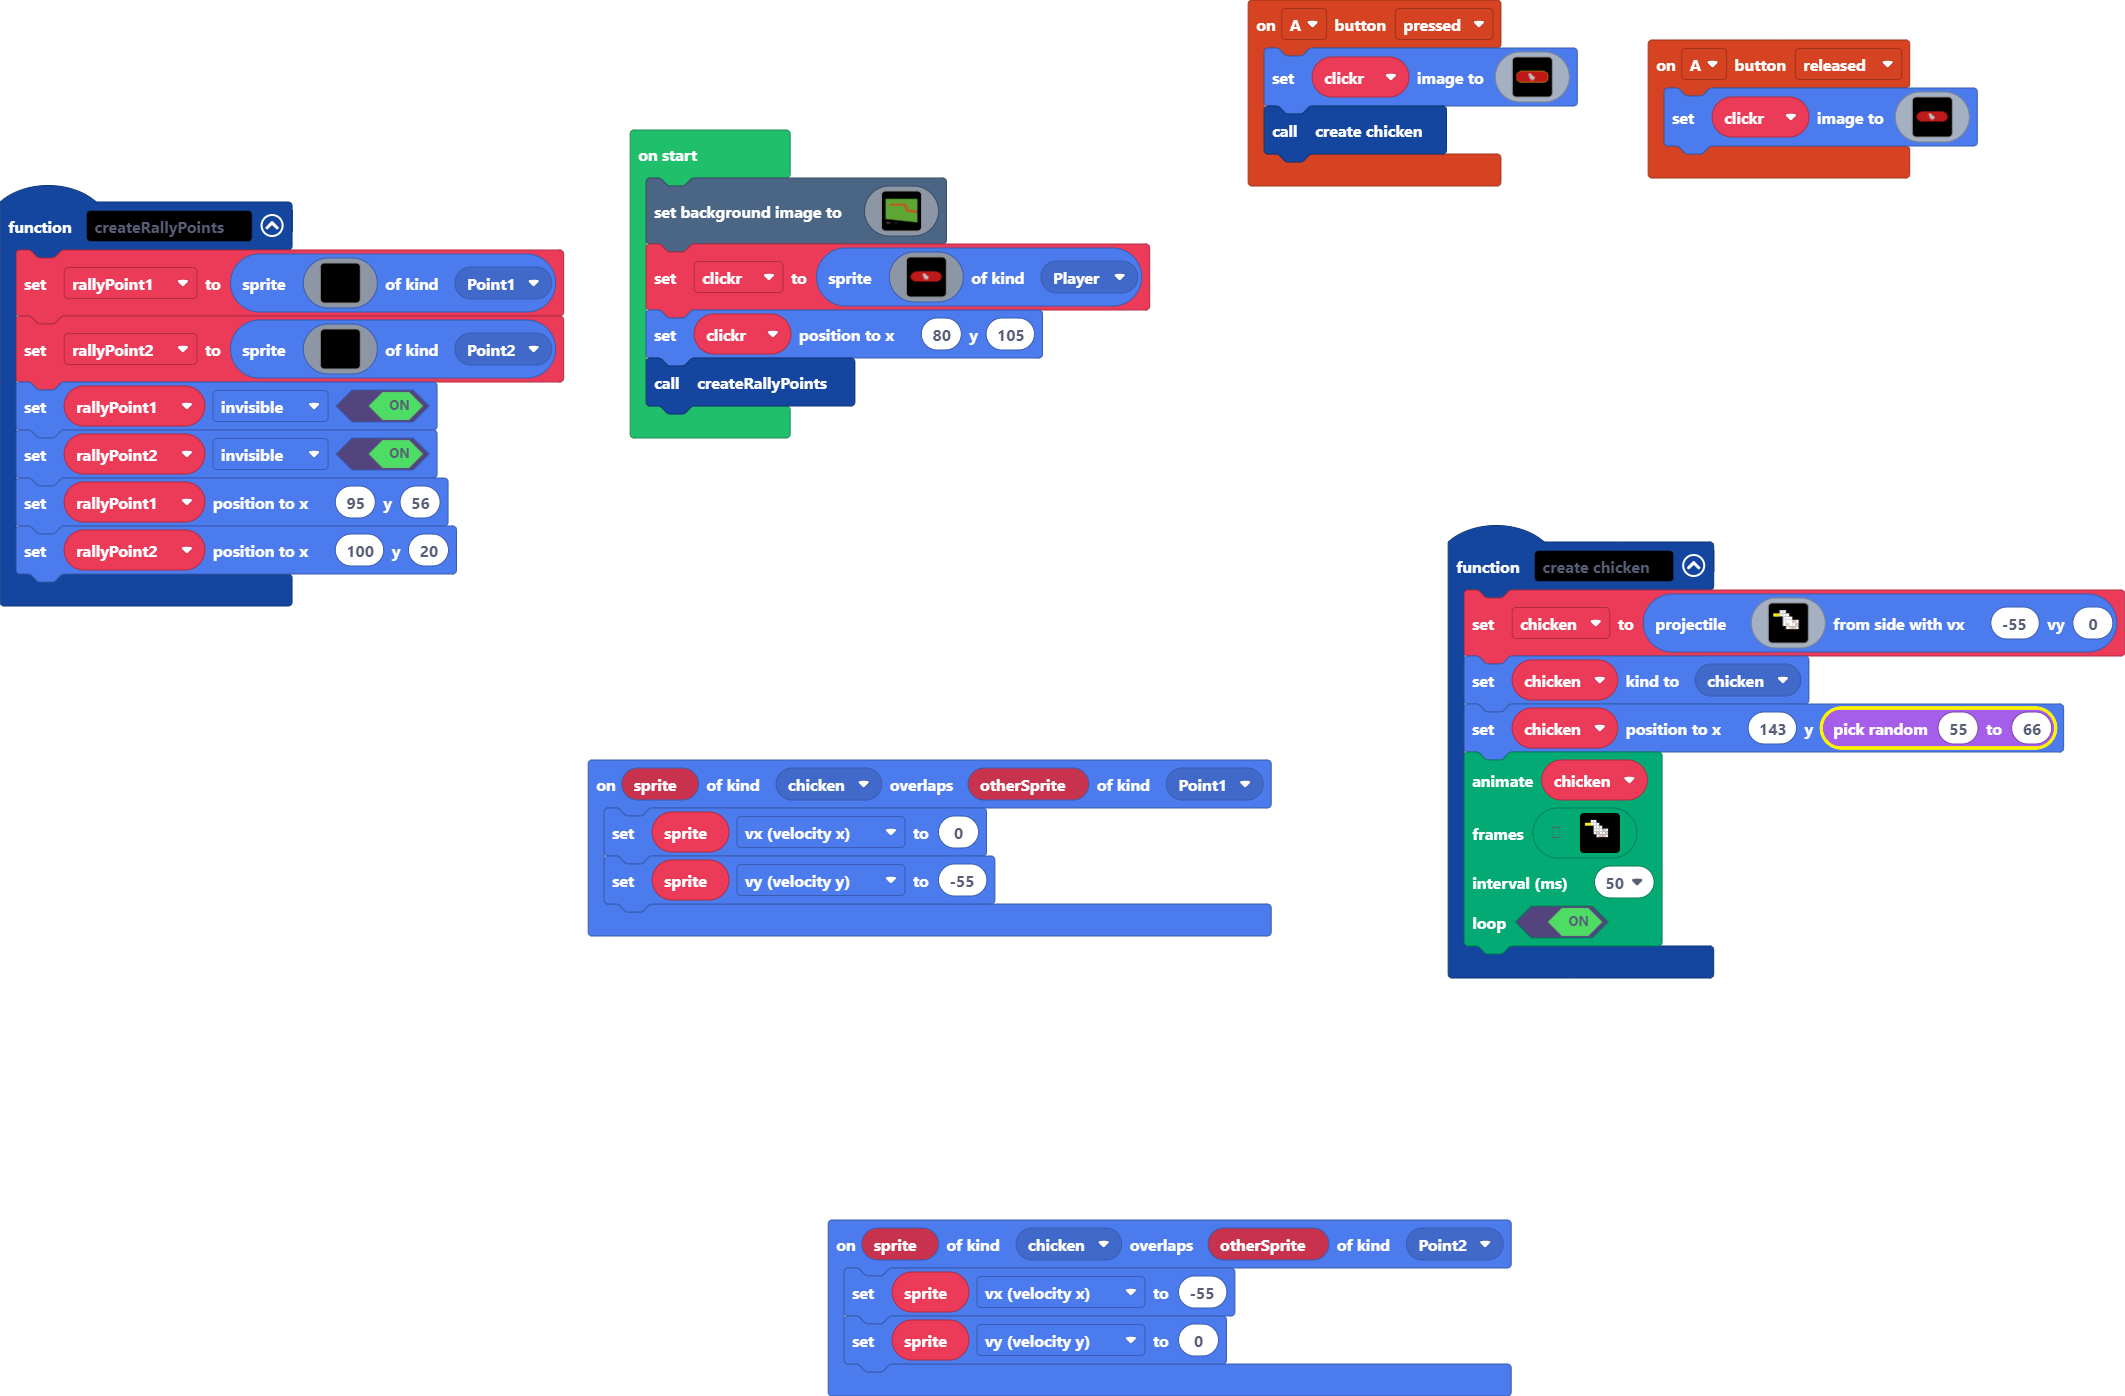
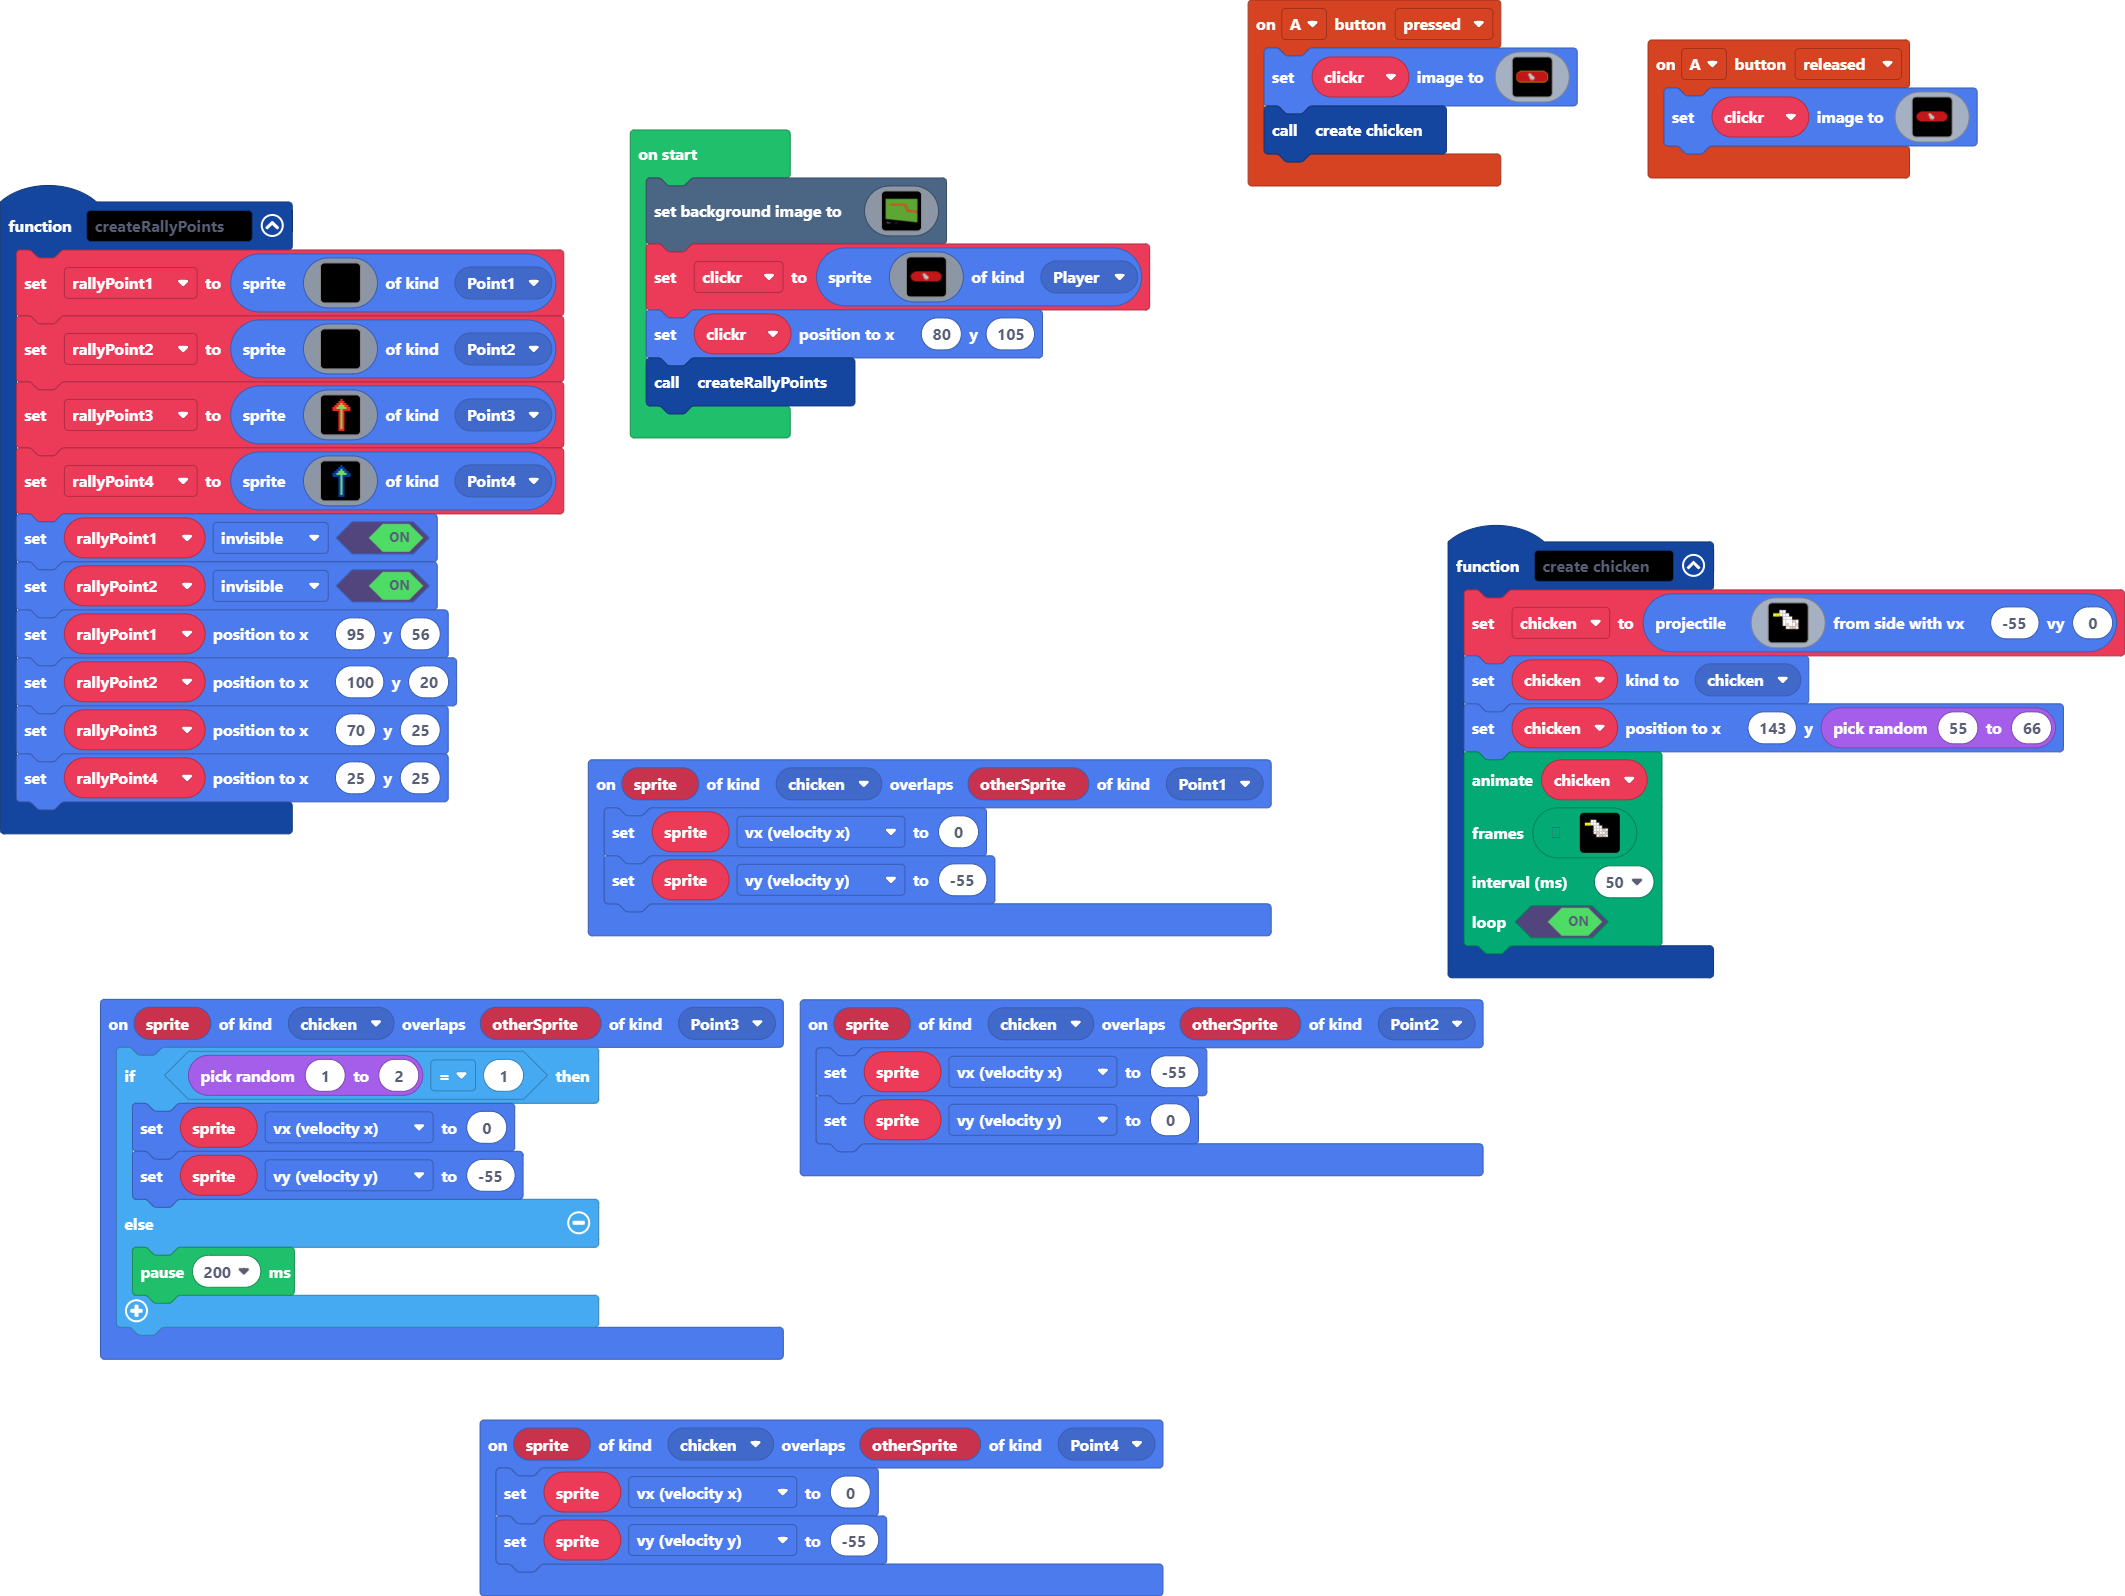
The chicken will either go up one way, or the other, to get to any of the houses (that are not made yet) .

diff --git a/main.ts b/main.ts
@@ -2,6 +2,8 @@ namespace SpriteKind {
     export const Point1 = SpriteKind.create()
     export const chicken = SpriteKind.create()
     export const Point2 = SpriteKind.create()
+    export const Point3 = SpriteKind.create()
+    export const Point4 = SpriteKind.create()
 }
 function create_chicken () {
     chicken = sprites.createProjectileFromSide(img`
@@ -73,6 +75,10 @@ function create_chicken () {
     true
     )
 }
+sprites.onOverlap(SpriteKind.chicken, SpriteKind.Point4, function (sprite, otherSprite) {
+    sprite.vx = 0
+    sprite.vy = -55
+})
 controller.A.onEvent(ControllerButtonEvent.Pressed, function () {
     clickr.setImage(img`
         .........5555555555555555555555555555555555555555555555555555555.........
@@ -141,10 +147,48 @@ function createRallyPoints () {
         . . . . . . . . . . . . . . . . 
         . . . . . . . . . . . . . . . . 
         `, SpriteKind.Point2)
+    rallyPoint3 = sprites.create(img`
+        . . . . . . . . 2 . . . . . . . 
+        . . . . . . . 2 2 2 . . . . . . 
+        . . . . . . 2 2 7 2 2 . . . . . 
+        . . . . . 2 2 7 7 7 2 2 . . . . 
+        . . . . 2 2 7 7 7 7 7 2 2 . . . 
+        . . . . 2 2 2 2 7 2 2 2 2 . . . 
+        . . . . . . . 2 7 2 . . . . . . 
+        . . . . . . . 2 7 2 . . . . . . 
+        . . . . . . . 2 7 2 . . . . . . 
+        . . . . . . . 2 7 2 . . . . . . 
+        . . . . . . . 2 7 2 . . . . . . 
+        . . . . . . . 2 7 2 . . . . . . 
+        . . . . . . . 2 7 2 . . . . . . 
+        . . . . . . . 2 7 2 . . . . . . 
+        . . . . . . . 2 7 2 . . . . . . 
+        . . . . . . . 2 2 2 . . . . . . 
+        `, SpriteKind.Point3)
+    rallyPoint4 = sprites.create(img`
+        . . . . . . . . 8 . . . . . . . 
+        . . . . . . . 8 8 8 . . . . . . 
+        . . . . . . 8 8 7 8 8 . . . . . 
+        . . . . . 8 8 7 7 7 8 8 . . . . 
+        . . . . 8 8 7 7 7 7 7 8 8 . . . 
+        . . . . 8 8 8 8 7 8 8 8 8 . . . 
+        . . . . . . . 8 7 8 . . . . . . 
+        . . . . . . . 8 7 8 . . . . . . 
+        . . . . . . . 8 7 8 . . . . . . 
+        . . . . . . . 8 7 8 . . . . . . 
+        . . . . . . . 8 7 8 . . . . . . 
+        . . . . . . . 8 7 8 . . . . . . 
+        . . . . . . . 8 7 8 . . . . . . 
+        . . . . . . . 8 7 8 . . . . . . 
+        . . . . . . . 8 7 8 . . . . . . 
+        . . . . . . . 8 8 8 . . . . . . 
+        `, SpriteKind.Point4)
     rallyPoint1.setFlag(SpriteFlag.Invisible, true)
     rallyPoint2.setFlag(SpriteFlag.Invisible, true)
     rallyPoint1.setPosition(95, 56)
     rallyPoint2.setPosition(100, 20)
+    rallyPoint3.setPosition(70, 25)
+    rallyPoint4.setPosition(25, 25)
 }
 controller.A.onEvent(ControllerButtonEvent.Released, function () {
     clickr.setImage(img`
@@ -178,10 +222,20 @@ sprites.onOverlap(SpriteKind.chicken, SpriteKind.Point2, function (sprite, other
     sprite.vx = -55
     sprite.vy = 0
 })
+sprites.onOverlap(SpriteKind.chicken, SpriteKind.Point3, function (sprite, otherSprite) {
+    if (randint(1, 2) == 1) {
+        sprite.vx = 0
+        sprite.vy = -55
+    } else {
+        pause(200)
+    }
+})
 sprites.onOverlap(SpriteKind.chicken, SpriteKind.Point1, function (sprite, otherSprite) {
     sprite.vx = 0
     sprite.vy = -55
 })
+let rallyPoint4: Sprite = null
+let rallyPoint3: Sprite = null
 let rallyPoint2: Sprite = null
 let rallyPoint1: Sprite = null
 let chicken: Sprite = null
